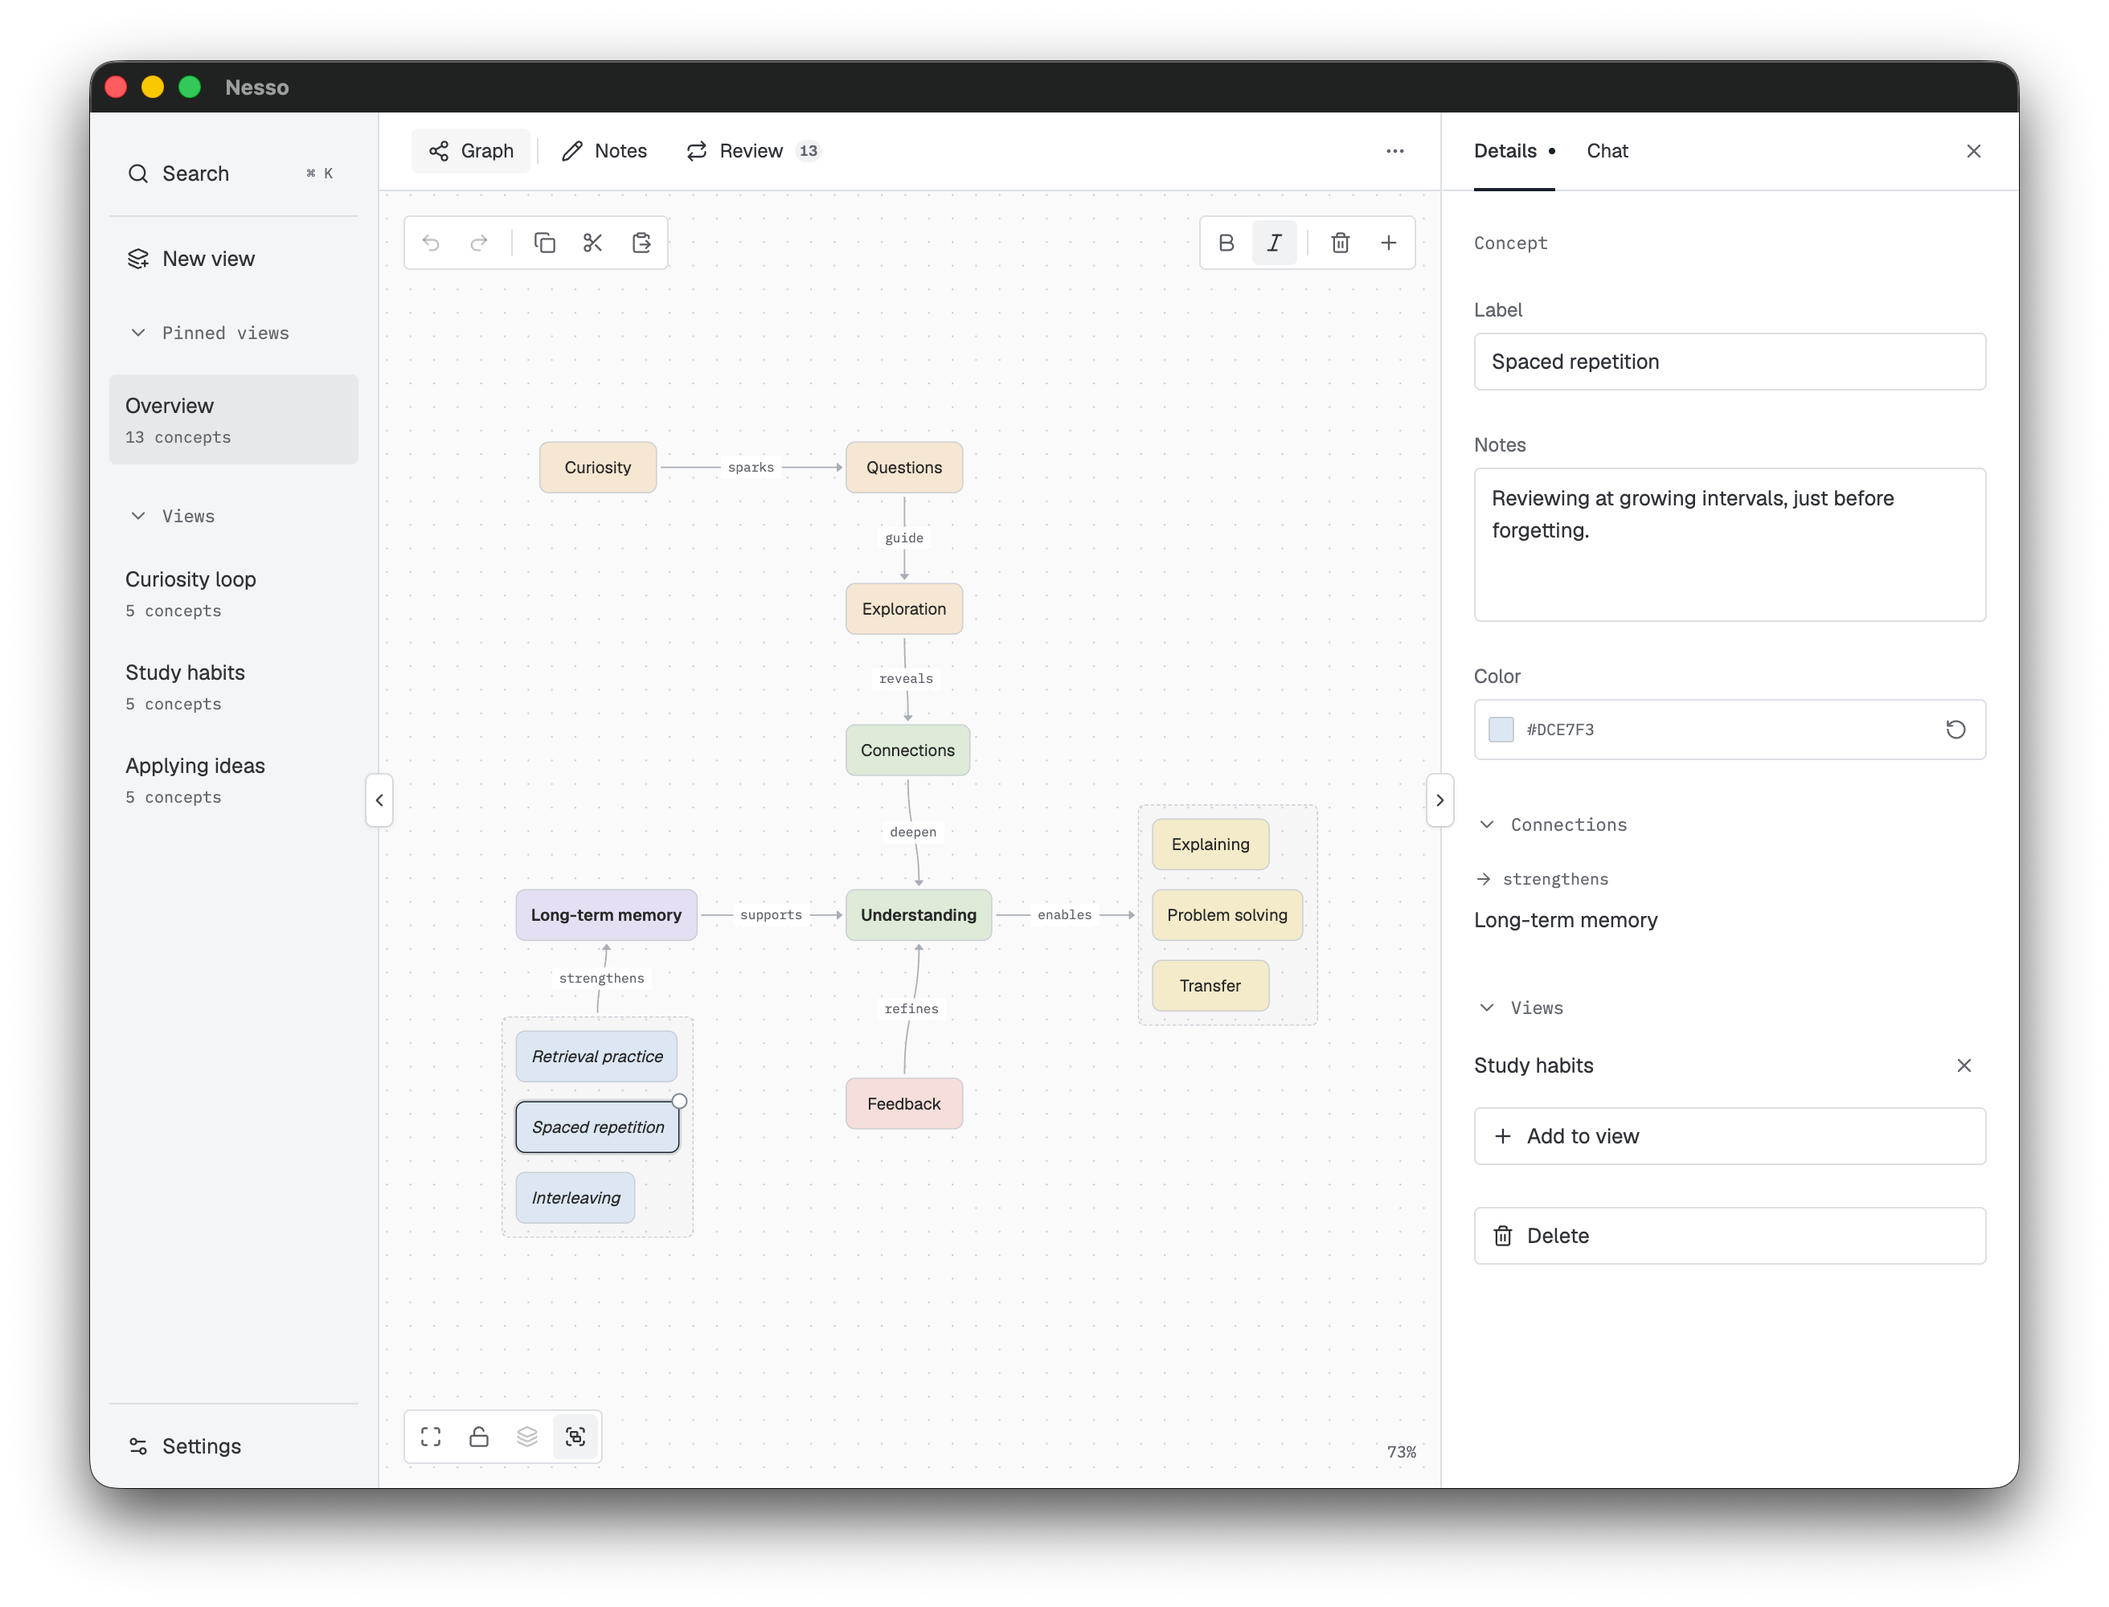
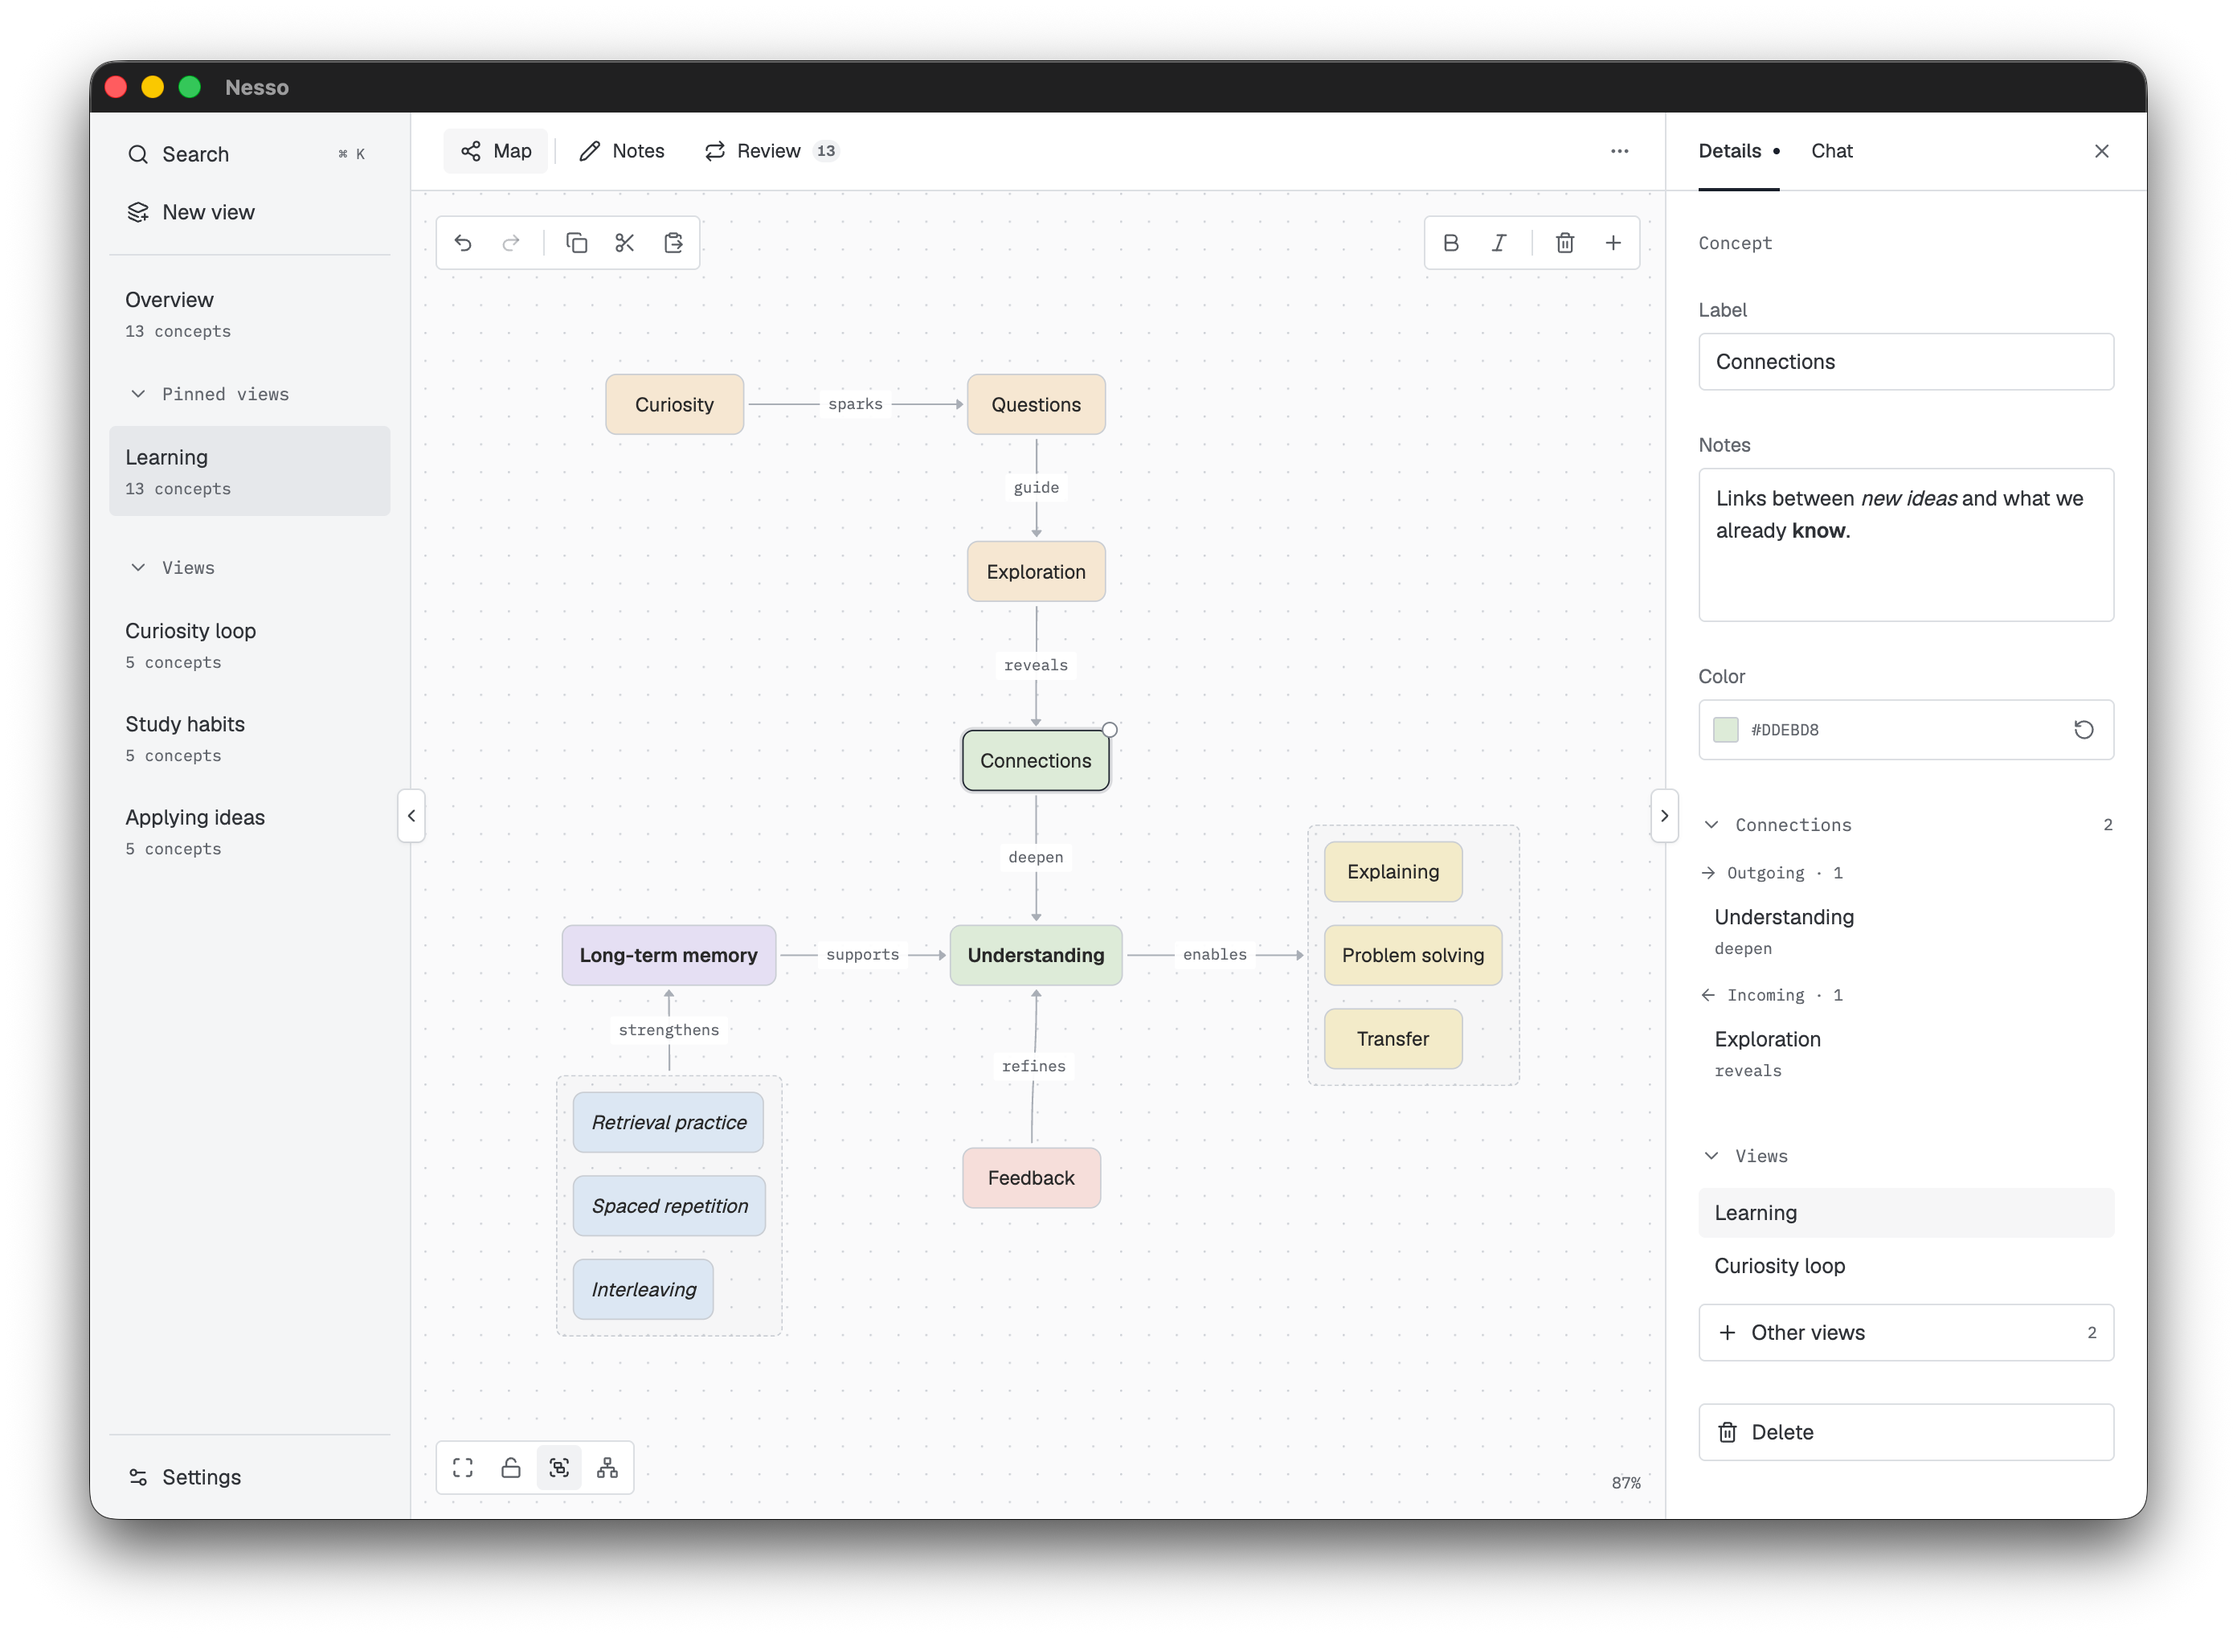
Refresh landing screenshot and learning demo notes (#328)
## Summary

Refresh the landing screenshot and the learning demo graph, and polish
the Explorer and Inspector styling shown in it. The screenshot is now a
native macOS window capture with the system title bar, active traffic
lights and baked-in window shadow, aligned with the sections below.

## Changes

- Sidebar: match the Search top margin to the Settings bottom margin (8
px), move the separator below New view, and match the selected Inspector
view background to the active navbar tab (`bg-accent`).
- Learning demo (`site/nesso-understanding.jsonld`): emphasize note
keywords with markdown bold and italic across all 13 concepts.
- Screenshot: recapture the Electron window natively (PNG/WebP
2784×2038) with the system title bar, colored traffic lights and native
window shadow; update `site/index.html` dimensions and the CSS overscan
ratios so window edges align with the sections below.

## Testing

- `pnpm build`, `pnpm site:build` and `pnpm lint` pass (only preexisting
warnings).
- `node --test site/*.test.ts`: 8/8 pass.
- `pnpm analyze --summary` and `--changed-since origin/main`: no issues,
gates pass.
- Verified the running Electron app: equal 8 px margins, separator
placement, equal selected backgrounds, note emphasis rendered, no
clipped scroll areas.

diff --git a/src/components/app/Sidebar.tsx b/src/components/app/Sidebar.tsx
@@ -134,26 +134,24 @@ export function AppSidebar({
 
   const content = (
     <>
-      <div className="flex min-h-0 flex-1 flex-col px-3 pt-5">
+      <div className="flex min-h-0 flex-1 flex-col px-3 pt-2">
         {onOpenSearch && (
-          <>
-            <Button
-              variant="ghost"
-              className="w-full justify-start"
-              onClick={onOpenSearch}
-              aria-keyshortcuts="Meta+K Control+K"
-            >
-              <Search />
-              {t('search')}
-              <Kbd className="ml-auto h-5 min-w-0 border-transparent px-1 text-[9px]">
-                {/Mac|iPhone|iPad/.test(navigator.platform) ? '⌘' : 'Ctrl'} K
-              </Kbd>
-            </Button>
-            <div aria-hidden className="my-2 h-px bg-border" />
-          </>
+          <Button
+            variant="ghost"
+            className="w-full justify-start"
+            onClick={onOpenSearch}
+            aria-keyshortcuts="Meta+K Control+K"
+          >
+            <Search />
+            {t('search')}
+            <Kbd className="ml-auto h-5 min-w-0 border-transparent px-1 text-[9px]">
+              {/Mac|iPhone|iPad/.test(navigator.platform) ? '⌘' : 'Ctrl'} K
+            </Kbd>
+          </Button>
         )}
         <NewViewButton ref={createTrigger} disabled={readonly} />
-        <ListRow className="mt-1.5 has-[[aria-current]]:bg-pressed">
+        <div aria-hidden className="my-2 h-px bg-border" />
+        <ListRow className="has-[[aria-current]]:bg-pressed">
           <ListRowButton
             onClick={() => navigate(null)}
             aria-current={workspace.activeViewId === null ? 'page' : undefined}

diff --git a/src/components/app/ConceptViews.tsx b/src/components/app/ConceptViews.tsx
@@ -69,10 +69,7 @@ export function ConceptViews({
           {listed.map((view) => {
             const count = coverage(view)
             return (
-              <ListRow
-                key={view.id}
-                className="min-h-0 has-[[aria-current]]:bg-[color-mix(in_srgb,var(--hover),var(--pressed))]"
-              >
+              <ListRow key={view.id} className="min-h-0 has-[[aria-current]]:bg-accent">
                 <ListRowButton
                   className="py-1.5"
                   onClick={() => store.setView(view.id)}

diff --git a/site/styles.css b/site/styles.css
@@ -291,15 +291,14 @@ html:not([data-desktop]) .web-cta:hover {
   color: var(--muted-foreground);
 }
 .app-preview {
-  max-width: 1000px;
   margin-inline: auto;
   margin-top: clamp(48px, 7vw, 80px);
 }
 .app-preview > img {
   display: block;
-  width: calc(100% * 2624 / 2400);
+  width: calc(100% * 2784 / 2560);
   max-width: none;
-  margin-inline: calc(-100% * 112 / 2400);
+  margin-inline: calc(-100% * 112 / 2560);
   height: auto;
 }
 .workspace-captions {

diff --git a/src/components/app/NewViewButton.tsx b/src/components/app/NewViewButton.tsx
@@ -25,11 +25,7 @@ export function NewViewButton({
           ref={ref}
           disabled={disabled}
           render={
-            <Button
-              variant="ghost"
-              className="mb-3 w-full justify-start"
-              aria-label={t('newView')}
-            />
+            <Button variant="ghost" className="w-full justify-start" aria-label={t('newView')} />
           }
         >
           <LayersPlus />

diff --git a/site/index.html b/site/index.html
@@ -142,8 +142,8 @@
           <img
             src="/nesso-understanding.webp"
             alt="{{screenshotAlt}}"
-            width="2624"
-            height="2000"
+            width="2784"
+            height="2038"
             fetchpriority="high"
           />
           <figcaption class="workspace-captions">
